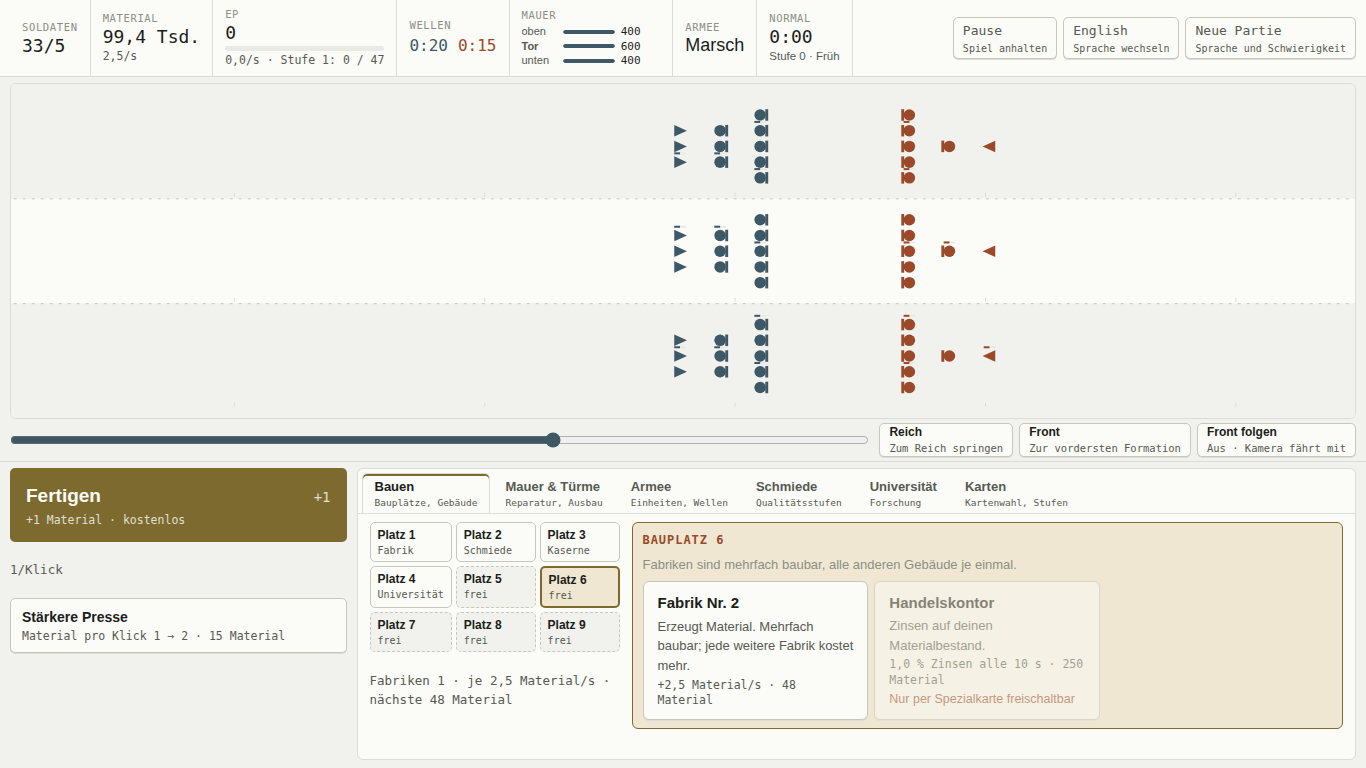
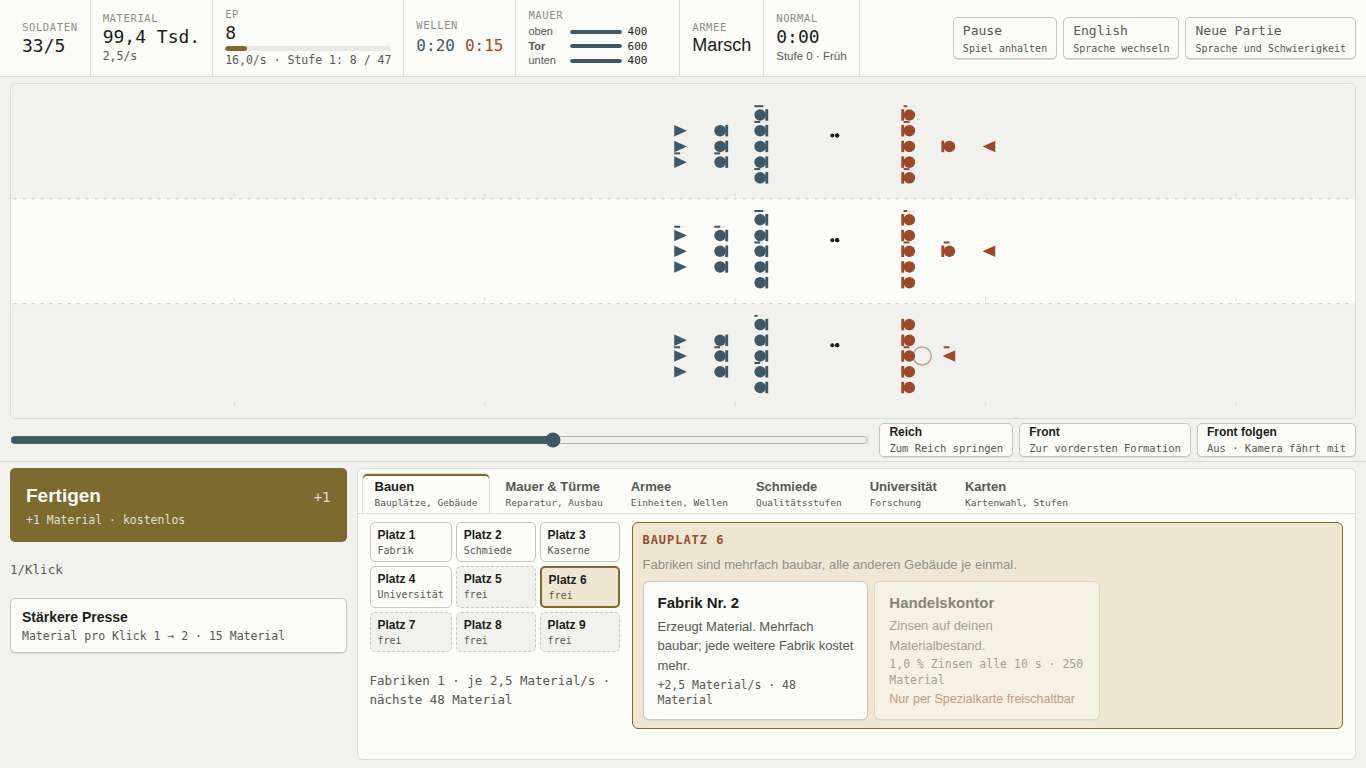
I5.5: Einzelsimulation – Ziel und Abklingzeit je Einheit, gleichzeitige Auflösung
Claude-Session: https://claude.ai/code/session_01RqqApCTqB6RFHL8EkvpfCn

Changed region(s): [[0.1537, 0.0, 0.6149, 0.0938], [0.6764, 0.4375, 0.7379, 0.4688]]

diff --git a/core.js b/core.js
@@ -59,7 +59,7 @@ function freshState(diff, seed){
 
 function create(){
   let S = freshState(null, 1);
-  const FX = { on: true, shots: [], fx: [], baseFlash: { p: [0, 0, 0], e: 0 } };
+  const FX = { on: true, shots: [], fx: [], baseFlash: { p: [0, 0, 0], e: 0 }, lunge: new Map() };
 
   const rnd = () => { const [v, s] = nextRandom(S.rng); S.rng = s; return v; };
   function log(key, params){
@@ -134,7 +134,6 @@ function create(){
   const unitCost     = type => mMul('unitCost') === 0 ? 0 : Math.max(1, Math.round(C.UNITS[type].cost * mMul('unitCost')));
   const spawnX       = () => PBW + mAdd('spawnOffset');
   const unitRange    = (side, type) => C.UNITS[type].range + (side === 'p' && type === 'werfer' ? mAdd('werferRange') : 0);
-  const rangedRows   = side => C.RANGED_RANGE_ROWS + (side === 'p' ? mAdd('rangedRows') : 0);
   const phase        = () => S.level < C.PHASE_MID_LEVEL ? 'early' : S.level < C.PHASE_LATE_LEVEL ? 'mid' : 'late';
   const xpNeed       = n => xpForLevel(n) * mMul('xpNeed');
   const xpProgress   = () => ({ level: S.level, cur: S.xpTotal - xpNeed(S.level), need: xpNeed(S.level + 1) - xpNeed(S.level) });
@@ -401,47 +400,7 @@ function create(){
     for (const u of S.units) if (u.side === 'e' && u.lane === lane && u.hp > 0) x = Math.min(x, u.x - C.ROW_GAP);
     return Math.max(PBW, x);
   }
-  function nearestInLane(side, lane, x, range){
-    let best = null, bd = Infinity;
-    for (const u of S.units){
-      if (u.hp <= 0 || u.side !== side || u.lane !== lane) continue;
-      const dd = Math.abs(u.x - x);
-      if (dd <= range && dd < bd){ bd = dd; best = u; }
-    }
-    return best;
-  }
   const shot = s => { if (FX.on) FX.shots.push(s); };
-
-  function updateTurrets(dt){
-    // Gegnerischer Turm steht an der Mitte: zuerst Einheiten der Mitte, sonst die nächste in einer anderen Lane (REQ-43)
-    S.enemyTurretCd -= dt;
-    if (S.enemyTurretCd <= 0){
-      let tgt = nearestInLane('p', GATE, W - EBW, C.ENEMY_TURRET.range), bd = Infinity;
-      if (!tgt) for (const u of S.units){
-        if (u.side !== 'p' || u.hp <= 0) continue;
-        const dd = W - EBW - u.x;
-        if (dd <= C.ENEMY_TURRET.range && dd < bd){ bd = dd; tgt = u; }
-      }
-      if (tgt){
-        tgt.hp -= diffCfg().turretDmg * enemyDmgMult(); tgt.flash = 0.12;
-        shot({ x0: W - EBW / 2, lane0: GATE, x1: tgt.x, lane: tgt.laneF, t: 0, dur: 0.18, turret: true });
-        S.enemyTurretCd = C.ENEMY_TURRET.cd;
-      }
-    }
-    // Eigene Türme: nur Gegner der eigenen Lane, inaktiv solange der Abschnitt gefallen ist (REQ-13.2)
-    for (const lane of C.TOWER_LANES){
-      if (!towerActive(lane)) continue;
-      S.turretCd[lane] = (S.turretCd[lane] || 0) - dt;
-      if (S.turretCd[lane] > 0) continue;
-      // Türme: zuerst Gegner der eigenen Lane, sonst Gegner in der Mitte in Reichweite (REQ-43)
-      const tgt = nearestInLane('e', lane, PBW, turretRange(lane)) || nearestInLane('e', GATE, PBW, turretRange(lane));
-      if (tgt){
-        tgt.hp -= turretDmg(lane) * (tgt.type === 'werfer' ? mMul('turretVsRanged') : 1); tgt.flash = 0.12;
-        shot({ x0: PBW - 9, lane0: lane, x1: tgt.x, lane: tgt.laneF, t: 0, dur: 0.18, turret: true });
-        S.turretCd[lane] = turretCd(lane);
-      }
-    }
-  }
 
   /* Schaden an einem Abschnitt der eigenen Basis. Ist eine Mauer gefallen, trifft es das Tor (REQ-13.3). */
   function hitSection(lane, dmg){
@@ -460,14 +419,16 @@ function create(){
   function hitUnit(u, target){
     let dmg = u.dmg;
     if (u.side === 'p'){
-      dmg *= mMul('dmgVsUnits');
+      dmg *= mMul('dmgVsUnits') * (u.ranged ? mMul('rangedDmg') : 1);
       if (u.formSize >= (OPT.kriegstrommeln ? OPT.kriegstrommeln.condition.value : Infinity)) dmg *= mMul('drumsDmg');   // Kriegstrommeln
     } else if (!target.ranged && target.row === 0 && target.rowSize === C.FORMATION_ROW_MAX) dmg /= mMul('shieldHp');        // Schildwall
     target.hp -= dmg; target.flash = 0.12;
     if (u.ranged) shot({ x0: u.x, x1: target.x, lane: u.laneF, t: 0, dur: 0.3 });
+    else lunge(u);
   }
   function hitBase(u){
-    if (u.side === 'p'){ S.enemyBaseHp -= u.dmg * mMul('dmgVsBase'); FX.baseFlash.e = 0.12; }
+    if (!u.ranged) lunge(u);
+    if (u.side === 'p'){ S.enemyBaseHp -= u.dmg * mMul('dmgVsBase') * (u.ranged ? mMul('rangedDmg') : 1); FX.baseFlash.e = 0.12; }
     else {
       hitSection(u.lane, u.dmg);
       if (!u.ranged && lv('stacheln') > 0){ u.hp -= C.FX_STACHELN_DMG * lv('stacheln'); u.flash = 0.12; }
@@ -476,7 +437,7 @@ function create(){
   }
 
   /* Bewegung und Kampf aller Formationen. Die Formation hält, sobald die vorderste Reihe Kontakt hat.
-     Die ganze vorderste Reihe greift an; Fernkämpfer, solange höchstens rangedRows Reihen vor ihnen stehen (REQ-42). */
+     Gekämpft wird je Einheit in resolveCombat (REQ-5.05). */
   /* Lane-übergreifender Kampf (REQ-43): Ohne Ziel in der eigenen Lane innerhalb von SUPPORT_RANGE wechselt eine Formation in eine
      Nachbar-Lane mit Gegner in diesem Abstand (von oben oder unten nur in die Mitte). Ziele in der eigenen Lane gehen immer vor;
      nach dem Kampf kehrt die Formation zurück. Der Wechsel ist eine Querbewegung, währenddessen kämpft die Formation nicht. */
@@ -500,12 +461,93 @@ function create(){
     const step = dt / C.LANE_SHIFT_S;
     f.laneF = Math.abs(f.lane - f.laneF) <= step ? f.lane : f.laneF + Math.sign(f.lane - f.laneF) * step;
   }
+  /* ---------- Einzelsimulation (REQ-5.05) ----------
+     Jede Einheit wählt ihr Ziel selbst: den nächsten Gegner der eigenen Lane in Reichweite, bei Gleichstand die niedrigste Id.
+     Ein Ziel bleibt, bis es fällt oder die Reichweite verlässt. Nahkämpfer brauchen Kontakt (MELEE_REACH), Fernkämpfer schießen
+     über eigene Reihen. Ohne Einheit in Reichweite greift eine Einheit die Basis an, wenn diese in Reichweite ist.
+     Alle Angriffe eines Ticks werden aus dem Zustand zu Tickbeginn bestimmt und danach gemeinsam angewendet; keine Seite hat
+     einen Zugvorteil. Türme wählen ebenso einzelne Einheiten. Ziele liegen als Ids in einer Map außerhalb des Spielstands. */
+  let targets = new Map();
+  const reachOf = u => u.ranged ? u.range : C.MELEE_REACH;
+  const fighting = u => u.hp > 0 && u.laneF === u.lane;        // während der Querbewegung weder Angreifer noch Ziel
+  /* Je Seite und Lane die kampffähigen Einheiten, nach x sortiert: Zielsuche per Binärsuche statt über alle Einheiten */
+  function laneIndex(side){
+    const idx = Array.from({ length: LANES }, () => []);
+    for (const u of S.units) if (u.side === side && fighting(u)) idx[u.lane].push(u);
+    for (const a of idx) a.sort((p, q) => p.x - q.x || p.id - q.id);
+    return idx;
+  }
+  /* Nächste Einheit zu x innerhalb von reach; bei gleichem Abstand die niedrigste Id */
+  function nearestIn(arr, x, reach){
+    let lo = 0, hi = arr.length;
+    while (lo < hi){ const m = (lo + hi) >> 1; if (arr[m].x < x) lo = m + 1; else hi = m; }
+    let best = null, bd = Infinity;
+    const take = u => { const d = Math.abs(u.x - x); if (d > reach) return false; if (d < bd || (d === bd && u.id < best.id)){ bd = d; best = u; } return d <= bd; };
+    for (let i = lo; i < arr.length && take(arr[i]); i++);
+    for (let i = lo - 1; i >= 0 && take(arr[i]); i--);
+    return best;
+  }
+  const byId = new Map();
+  function keepTarget(key, x, reach, lanes){
+    const id = targets.get(key), tg = id !== undefined ? byId.get(id) : null;
+    return tg && fighting(tg) && lanes.includes(tg.lane) && Math.abs(tg.x - x) <= reach ? tg : null;
+  }
+  function resolveCombat(dt){
+    byId.clear();
+    for (const u of S.units) byId.set(u.id, u);
+    const idx = { p: laneIndex('p'), e: laneIndex('e') };
+    const attacks = [];
+    // 1. Ziele bestimmen, Zustand zu Tickbeginn
+    for (const u of S.units){
+      u.flash = Math.max(0, u.flash - dt);
+      if (u.hp <= 0) continue;
+      u.cd -= dt;
+      if (u.cd > 0 || u.laneF !== u.lane) continue;
+      const reach = reachOf(u), foes = idx[u.side === 'p' ? 'e' : 'p'][u.lane];
+      const tg = keepTarget(u.id, u.x, reach, [u.lane]) || nearestIn(foes, u.x, reach);
+      if (tg){ targets.set(u.id, tg.id); attacks.push({ u, tg }); u.cd = u.cdMax; continue; }
+      targets.delete(u.id);
+      if ((baseX(u.side) - u.x) * dirOf(u.side) <= reach){ attacks.push({ u, base: true }); u.cd = u.cdMax; }
+    }
+    // Gegnerischer Turm an der Mitte: zuerst Einheiten der Mitte, sonst die nächste einer anderen Lane (REQ-43)
+    S.enemyTurretCd -= dt;
+    if (S.enemyTurretCd <= 0){
+      const x = W - EBW, r = C.ENEMY_TURRET.range, all = [GATE, ...C.LANE_ORDER.filter(l => l !== GATE)];
+      // behaltenes Ziel einer anderen Lane zählt nur, solange die Mitte frei ist (Rangfolge wie REQ-5.05, Punkt 1)
+      const mid = nearestIn(idx.p[GATE], x, r), kept = keepTarget('eT', x, r, all);
+      let tg = kept && (kept.lane === GATE || !mid) ? kept : mid;
+      if (!tg){ let bd = Infinity; for (const l of all) if (l !== GATE){ const c = nearestIn(idx.p[l], x, r); if (c && (x - c.x < bd || (x - c.x === bd && c.id < tg.id))){ bd = x - c.x; tg = c; } } }
+      if (tg){ targets.set('eT', tg.id); attacks.push({ turret: 'e', tg, dmg: diffCfg().turretDmg * enemyDmgMult() }); S.enemyTurretCd = C.ENEMY_TURRET.cd; }
+    }
+    // Eigene Türme: zuerst Gegner der eigenen Lane, sonst der Mitte; inaktiv, solange der Abschnitt gefallen ist (REQ-13.2, REQ-43)
+    for (const lane of C.TOWER_LANES){
+      if (!towerActive(lane)) continue;
+      S.turretCd[lane] = (S.turretCd[lane] || 0) - dt;
+      if (S.turretCd[lane] > 0) continue;
+      const r = turretRange(lane), key = 'pT' + lane;
+      const own = nearestIn(idx.e[lane], PBW, r), kept = keepTarget(key, PBW, r, [lane, GATE]);
+      const tg = (kept && (kept.lane === lane || !own) ? kept : own) || nearestIn(idx.e[GATE], PBW, r);
+      if (tg){ targets.set(key, tg.id); attacks.push({ turret: lane, tg, dmg: turretDmg(lane) * (tg.type === 'werfer' ? mMul('turretVsRanged') : 1) }); S.turretCd[lane] = turretCd(lane); }
+    }
+    // 2. Alle Angriffe gemeinsam anwenden; überschüssiger Schaden verfällt
+    for (const a of attacks){
+      if (a.turret !== undefined){
+        a.tg.hp -= a.dmg; a.tg.flash = 0.12;
+        shot(a.turret === 'e' ? { x0: W - EBW / 2, lane0: GATE, x1: a.tg.x, lane: a.tg.laneF, t: 0, dur: 0.18, turret: true }
+                              : { x0: PBW - 9, lane0: a.turret, x1: a.tg.x, lane: a.tg.laneF, t: 0, dur: 0.18, turret: true });
+      } else if (a.base) hitBase(a.u);
+      else hitUnit(a.u, a.tg);
+    }
+    for (const key of [...targets.keys()]) if (!byId.has(key) && typeof key === 'number') targets.delete(key);
+  }
+  /* Ausfallschritt im Nahkampf (nur Darstellung, außerhalb des Spielstands) */
+  function lunge(u){ if (FX.on) FX.lunge.set(u.id, 0); }
+
   function updateForms(dt){
-    const aheads = new Map();
     layoutAll();
     for (const f of S.forms) chooseLane(f);
     for (const f of S.forms){
-      if (!arrived(f)){ shiftLane(f, dt); f.fighting = false; f.moving = true; aheads.set(f.id, null); continue; }
+      if (!arrived(f)){ shiftLane(f, dt); f.fighting = false; f.moving = true; continue; }
       const dir = dirOf(f.side), reach = frontReach(f), ahead = enemyAhead(f);
       const baseD = (baseX(f.side) - f.x) * dir;
       const contact = !!ahead && ahead.d <= reach;
@@ -519,33 +561,9 @@ function create(){
         f.x += dir * step;
         f.moving = step > 0;
       }
-      aheads.set(f.id, ahead);
     }
     layoutAll();
-    for (const f of S.forms){
-      if (!arrived(f)) continue;
-      const dir = dirOf(f.side), ahead = aheads.get(f.id), rows = rangedRows(f.side);
-      const tgtFront = ahead ? frontOf(ahead.f).filter(u => u.hp > 0) : [];
-      for (const u of S.units){
-        if (u.form !== f.id || u.hp <= 0) continue;
-        u.cd -= dt;
-        u.flash = Math.max(0, u.flash - dt);
-        if (u.cd > 0) continue;
-        const inFront = u.row === 0, rangedOk = u.ranged && u.row <= rows;
-        if (!inFront && !rangedOk) continue;
-        const dist = ahead ? ahead.d + u.row * C.ROW_GAP : Infinity;
-        const reach = u.ranged ? u.range : C.MELEE_REACH;
-        if (tgtFront.length && dist <= reach){
-          const live = tgtFront.filter(t => t.hp > 0);
-          if (!live.length) continue;
-          u.cd = u.cdMax;
-          hitUnit(u, live[u.col % live.length]);
-        } else if ((baseX(f.side) - u.x) * dir <= reach && !(tgtFront.length && dist <= reach + C.ROW_GAP)){
-          u.cd = u.cdMax;
-          hitBase(u);
-        }
-      }
-    }
+    resolveCombat(dt);
     mergeForms();
     for (const u of S.units){
       if (u.hp > 0 || u.dead) continue;
@@ -726,7 +744,6 @@ function create(){
       log('log.alarm');
     }
     spawnEnemies();
-    updateTurrets(dt);
     updateForms(dt);
     applyConditionals(dt);
     checkReveals();
@@ -748,7 +765,7 @@ function create(){
     S = freshState(diff, seed);
     S.intro = opts.intro === true;          // ohne Angabe (Tests, ältere Spielstände) volle Regeln ohne Einführung
     S.nextEnemy = rollEnemyWave();
-    FX.shots = []; FX.fx = [];
+    FX.shots = []; FX.fx = []; FX.lunge.clear(); targets = new Map();
     log('log.start', { diff: '@diff.' + diff + '.name' });
   }
   function adopt(saved){
@@ -784,7 +801,7 @@ function create(){
     canBuy, isAvailable, isMaxed, upCost, unitCost, buildCost, factoryCost, factoryCount, factoryRate, builtCount, has, countType, lv,
     kaserneLevel, levelStrength, qualityMult,
     buildBlock, isBuildable, introShows, refundFor, interestRate,
-    chooseDraft, phase, xpProgress, draftSize, mMul, mAdd, spawnX, unitRange, rangedRows, OPT, cardTaken, cardTier, cardWeight, optionAvailable,
+    chooseDraft, phase, xpProgress, draftSize, mMul, mAdd, spawnX, unitRange, OPT, cardTaken, cardTier, cardWeight, optionAvailable,
     clickPower, matRate, autoPressCps, hpMultP, dmgMultP, cdMultP, bountyMult, diffCfg,
     sectionMax, sectionUp, gateHp, towerBuilt, towerActive, 
     offlineHours, turretDmg, turretRange, turretCd,

diff --git a/render.js b/render.js
@@ -170,8 +170,11 @@ function unitPos(u){
   const spread = laneH() * 0.15, mid = ((u.rowSize || 1) - 1) / 2;
   return { x: wx(u.x), y: laneMid(lane) + ((u.col || 0) - mid) * spread };
 }
+const LUNGE_S = 0.18;
 function drawUnit(u){
   const p = unitPos(u), r = Math.max(3.5, Math.min(8, laneH() * 0.055)), dir = u.side === 'p' ? 1 : -1;
+  const lt = G.FX.lunge.get(u.id);
+  if (lt !== undefined && !reduceMotion) p.x += dir * r * 0.9 * Math.sin(Math.PI * lt / LUNGE_S);   // Ausfallschritt im Nahkampf (REQ-5.05)
   if (p.x < realmR() - 4) return;                        // noch im Tor
   ctx.fillStyle = u.flash > 0 ? COL.ink : (u.side === 'p' ? COL.steel : COL.rust);
   if (!u.ranged){
@@ -210,6 +213,7 @@ function draw(realDt, now){
   FX.baseFlash.e = Math.max(0, FX.baseFlash.e - realDt);
   const left = Cam.x - 40, right = Cam.x + cw + 40;
   for (const u of G.S.units){ const x = wx(u.x); if (x > left && x < right) drawUnit(u); }
+  for (const [id, lt] of FX.lunge){ if (lt + realDt >= LUNGE_S) FX.lunge.delete(id); else FX.lunge.set(id, lt + realDt); }
   FX.shots = FX.shots.filter(s => (s.t += realDt) < s.dur);
   for (const s of FX.shots){
     const p = s.t / s.dur, y1 = laneMid(s.lane ?? GATE);

diff --git a/data/draft-options.js b/data/draft-options.js
@@ -60,7 +60,7 @@ const KF_DRAFT_OPTIONS = [
   { id: 'vorposten', category: 'armee', rarity: 'common', nameKey: 'draft.vorposten.name', descKey: 'draft.vorposten.desc',
     tiers: [{ effect: [{ stat: 'spawnOffset', add: 150 }], drawback: [{ stat: 'wallHp', mul: 0.85 }] }] },
   { id: 'weitschuss', category: 'armee', rarity: 'rare', nameKey: 'draft.weitschuss.name', descKey: 'draft.weitschuss.desc',
-    tiers: [{ effect: [{ stat: 'rangedRows', add: 1 }] }] },
+    tiers: [{ effect: [{ stat: 'rangedDmg', mul: 1.2 }] }] },
   { id: 'sappeure', category: 'armee', rarity: 'rare', nameKey: 'draft.sappeure.name', descKey: 'draft.sappeure.desc',
     condition: { type: 'enemyHalf' }, tiers: [{ effect: [{ stat: 'siegeDps', add: 2 }] }, { effect: [{ stat: 'siegeDps', add: 5 }] }] },
   { id: 'veteranen', category: 'armee', rarity: 'rare', nameKey: 'draft.veteranen.name', descKey: 'draft.veteranen.desc',

diff --git a/i18n/de.js b/i18n/de.js
@@ -241,7 +241,7 @@ KF_I18N.de = {
   'draft.aushebung.name': 'Aushebung',
   'draft.aushebung.desc': 'Versorgungslimit +{e1}. Nachteil: Einheiten −{d1} % Lebenspunkte.',
   'draft.weitschuss.name': 'Weitschuss',
-  'draft.weitschuss.desc': 'Fernkämpfer greifen auch mit {e1} Einheit mehr vor sich an.',
+  'draft.weitschuss.desc': 'Fernkämpfer verursachen {e1} % mehr Schaden.',
   'draft.turmkanoniere.name': 'Turmkanoniere',
   'draft.turmkanoniere.desc': 'Turmschaden +{e1} %. Nur im Angebot, wenn ein Turm steht.',
   'wave.siege': 'Belagerungswelle in {time} · {x}-fache Stärke',

diff --git a/i18n/en.js b/i18n/en.js
@@ -241,7 +241,7 @@ KF_I18N.en = {
   'draft.aushebung.name': 'Levy',
   'draft.aushebung.desc': 'Supply cap +{e1}. Drawback: units −{d1}% hit points.',
   'draft.weitschuss.name': 'Long shot',
-  'draft.weitschuss.desc': 'Ranged units also attack with {e1} more unit in front of them.',
+  'draft.weitschuss.desc': 'Ranged units deal {e1}% more damage.',
   'draft.turmkanoniere.name': 'Tower gunners',
   'draft.turmkanoniere.desc': 'Tower damage +{e1}%. Only offered once a tower stands.',
   'wave.siege': 'Siege wave in {time} · {x}× strength',

diff --git a/config.js b/config.js
@@ -35,7 +35,6 @@ const KF_CONFIG = {
   LANE_COUNT: 3,
   GATE_LANE: 1,                 // Das Tor liegt am Ende der mittleren Lane
   LANE_ORDER: [1, 0, 2],        // Reihenfolge Mitte, oben, unten (REQ-12.1/12.2)
-  RANGED_RANGE_ROWS: 1,         // Fernkämpfer greifen an, solange höchstens so viele eigene Einheiten vor ihnen stehen (REQ-12.4)
   PLAYER_BASE_WIDTH: 60,
   ENEMY_BASE_WIDTH: 44,
   SPAWN_BLOCK_DIST: 12,

diff --git a/docs/STAND.md b/docs/STAND.md
@@ -12,7 +12,7 @@ Stand von Iteration 4: `docs/archiv/STAND-iteration-4.md`.
 | I5.2 | Umbenennung zu EP | 5.02 | fertig |
 | I5.3 | Drei Bänder, Aufteilung von `ui.js` | 5.03 | fertig |
 | I5.4 | Bauen über den Arbeitsbereich, Tastatur | 5.04 | fertig |
-| I5.5 | Einzelsimulation | 5.05 | offen |
+| I5.5 | Einzelsimulation | 5.05 | fertig |
 | I5.6 | Armee als gemeinsame Welle | 5.06 | offen |
 | I5.7 | Universität | 5.07 | offen |
 | I5.8 | Balancing-Serie | 5.08 | offen |
@@ -46,6 +46,9 @@ Kennzahlen der Basisserie (Median Sieg; Siegquote):
 | Schwer | 8:59 · 84 % | 10:23 · 52 % | 11:39 · 26 % | 0 % | 0 %, spätestens 21:07 |
 
 ## Prüfergebnisse
+- I5.5: `npm test` 93/93 (neu: zwei gegen einen, nächstes Ziel, Gleichstand und Zielbindung, symmetrisches Duell, Kontakt und Nachrücken, Turm mit
+  Einzelziel, gleicher Seed = gleiche Partie, Tick ≤ 1 ms), Browser-Prüfung grün. Kurzsimulation mit 200 Partien: 144 Siege, 56 Niederlagen,
+  **0 offen**, Dauer 1:39 min. Tick-Zeit mit 2 × 60 Einheiten: Median 0,11 ms, p95 0,25 ms (Basislinie 0,09–0,11 / 0,24–0,34).
 - I5.4: `npm test` 85/85, Browser-Prüfung 166/166, Kurzsimulation unverändert. Neue Prüfpunkte: Bau aus der Welt in genau zwei Klicks (Platz bleibt
   ausgewählt, Abriss sichtbar), aus dem Knopfraster in genau zwei Klicks (Kaserne mit Ausbau im Kontextkopf), nicht bezahlbare Optionen sichtbar, gesperrt
   und mit fehlender Menge, Bau vollständig per Tastatur (Pfeiltasten im Raster, Enter wählt, Enter baut).
@@ -117,3 +120,13 @@ und `user-select: none`. Tastenwiederholung löst keine Einheitenkäufe aus.
     Fokus nicht, damit sich nichts unter dem Zeiger verschiebt.
 17. **Kontextkopf im Reiter Bauen:** Für Bauplätze erscheint er auch dann im Reiter Bauen, wenn das Gebäude einen eigenen Reiter hat (Schmiede, Universität).
     So bleibt der Platz nach dem Bau ausgewählt und zeigt Abriss, ohne dass der Reiter wechselt. Die Upgrades der Schmiede stehen im Reiter Schmiede.
+18. **Bewegung bleibt bis I5.6 bei den Formationen aus v0.5** (gemeinsames Tempo, Halt bei Kontakt der vordersten Reihe, Lane-Wechsel als Formation).
+    Neu ist nur der Kampf: jede Einheit wählt ihr Ziel selbst, hat ihre eigene Abklingzeit, und alle Angriffe eines Ticks werden gleichzeitig angewendet.
+    Regel (b) „Gegner einer anderen Lane“ läuft bis I5.6 über den Lane-Wechsel der ganzen Formation.
+19. **Reihenregel für Fernkämpfer entfällt** (REQ-5.05, Punkt 3, ersetzt REQ-12.4): Fernkämpfer schießen über alle eigenen Reihen, begrenzt durch ihre Reichweite.
+    `RANGED_RANGE_ROWS` ist entfernt. Die Karte **Weitschuss**, die diese Regel lockerte, liefe ins Leere; sie gibt jetzt **+20 % Schaden der Fernkämpfer**.
+    Das ist eine Änderung an einer bestehenden Karte, keine neue Karte.
+20. **Rangfolge vor Zielbindung:** Ein behaltenes Ziel aus einer nachrangigen Lane (Turm: Nachbar-Lane statt eigener) wird aufgegeben, sobald in der
+    vorrangigen Lane ein Gegner in Reichweite ist. Innerhalb derselben Lane bleibt das Ziel, bis es fällt oder die Reichweite verlässt.
+21. **Gleichzeitigkeit:** Ziele werden aus dem Zustand zu Tickbeginn bestimmt, danach werden alle Treffer angewendet. Wirkungen, die erst durch den Treffer
+    entstehen (Stacheln der Mauer), treffen den Angreifer im selben Schritt.

diff --git a/CLAUDE.md b/CLAUDE.md
@@ -83,7 +83,8 @@ Iteration 4: Vergleichswert einer Karte ist „angeboten und nicht gewählt“ (
 ## Kampf in Formationen (REQ-42)
 Alle Einheiten einer Welle in derselben Lane bilden eine Formation, die sich als Block mit `FORMATION_SPEED` bewegt.
 Vorn Nahkämpfer in Reihen zu höchstens `FORMATION_ROW_MAX`, dahinter Fernkämpfer; die Reihen werden laufend neu gebildet.
-Die ganze vorderste Reihe greift an, Fernkämpfer mit höchstens `RANGED_RANGE_ROWS` Reihen vor sich. Formationen, die eine
+Seit I5.5 kämpft jede Einheit einzeln (`resolveCombat`): eigenes Ziel (nächster Gegner der Lane in Reichweite, Gleichstand → niedrigste Id),
+eigene Abklingzeit, alle Angriffe eines Ticks gleichzeitig; Nahkämpfer brauchen Kontakt, Fernkämpfer schießen über eigene Reihen. Formationen, die eine
 stehende eigene Formation einholen, verschmelzen. Transiente Daten (vorderste Reihe, Ziel) liegen nicht im Spielstand.
 
 ## Arbeitsweise in Inkrementen
